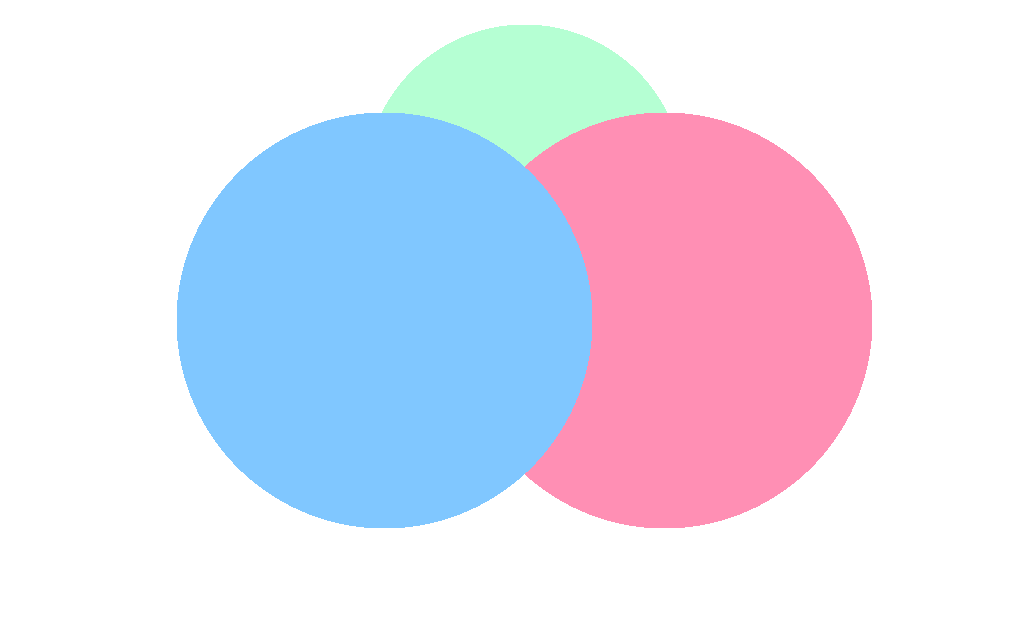
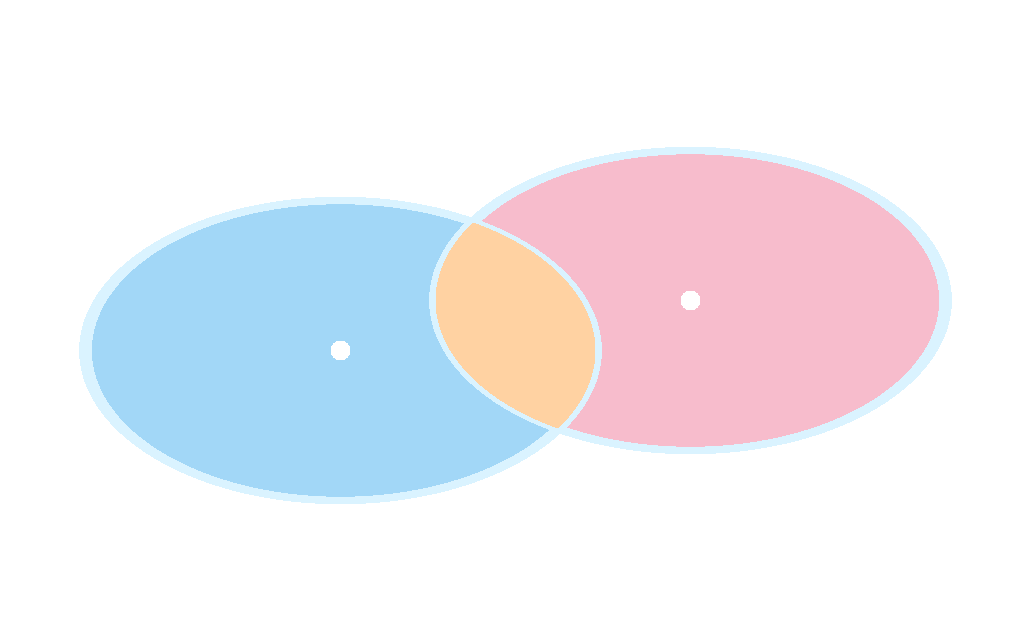
docs: align demo assets with mission fixtures

diff --git a/scripts/generate-example-assets.ts b/scripts/generate-example-assets.ts
@@ -10,41 +10,60 @@ await mkdir(output, { recursive: true })
 // pixels, so the sources are wider than that and stay sharp when the renderer
 // scales them down.
 
-// Opaque gradient with a bright horizon band
+// Opaque ascent profile on a dark telemetry-console background.
 await writeFile(path.join(output, "opaque.png"), png(1280, 720, (x, y) => {
-  const horizon = y / 720
-  const glow = Math.max(0, 1 - Math.abs(y - 360) / 184)
-  return [
-    Math.round(30 + horizon * 60 + glow * 90),
-    Math.round(70 + horizon * 80 + glow * 60),
-    Math.round(170 + horizon * 50 + glow * 30),
-    255,
-  ]
+  const pathY = ascentY(x, 1280, 720)
+  const distance = Math.abs(y - pathY)
+  const grid = x % 160 < 2 || y % 90 < 2
+  const glow = Math.max(0, 1 - distance / 18)
+  if (distance <= 3) return [102, 235, 255, 255]
+  if (glow > 0) return [Math.round(24 + glow * 35), Math.round(66 + glow * 120), Math.round(92 + glow * 130), 255]
+  if (grid) return [24, 61, 82, 255]
+  const depth = y / 720
+  return [Math.round(8 + depth * 8), Math.round(22 + depth * 18), Math.round(38 + depth * 28), 255]
 }))
 
-// Overlapping translucent discs on a transparent field
+// Overlapping translucent coverage footprints for the coastal and inland
+// ground stations. The transparent field lets the terminal background show.
 await writeFile(path.join(output, "transparent.png"), png(1024, 640, (x, y) => {
-  const left = Math.hypot(x - 384, y - 320) < 208
-  const right = Math.hypot(x - 664, y - 320) < 208
-  const top = Math.hypot(x - 524, y - 184) < 160
-  if (left) return [85, 180, 255, 190]
-  if (right) return [255, 105, 155, 190]
-  if (top) return [130, 255, 180, 150]
+  const coastal = ellipse(x, y, 340, 350, 255, 150)
+  const inland = ellipse(x, y, 690, 300, 255, 150)
+  const coastalRing = Math.abs(Math.hypot((x - 340) / 255, (y - 350) / 150) - 1) < 0.025
+  const inlandRing = Math.abs(Math.hypot((x - 690) / 255, (y - 300) / 150) - 1) < 0.025
+  const coastalStation = Math.hypot(x - 340, y - 350) < 10
+  const inlandStation = Math.hypot(x - 690, y - 300) < 10
+  if (coastalStation || inlandStation) return [255, 255, 255, 235]
+  if (coastal && inland) return [255, 176, 92, 145]
+  if (coastalRing || inlandRing) return [210, 240, 255, 210]
+  if (coastal) return [66, 174, 238, 125]
+  if (inland) return [238, 118, 150, 125]
   return [0, 0, 0, 0]
 }))
 
-// Color spectrum
+// A dark plume-spectrum fixture with a few bright emission lines.
 await writeFile(path.join(output, "spectrum.png"), png(1280, 640, (x, y) => {
-  const hue = (x / 1280) * 6
+  if (y < 96 || y >= 544) return [7, 17, 30, 255]
+  const hue = (x / 1280) * 5.8
   const [r, g, b] = hueRgb(hue)
-  const shade = 0.45 + (y / 640) * 0.55
-  return [Math.round(r * shade), Math.round(g * shade), Math.round(b * shade), 255]
+  const normalizedX = x / 1280
+  const peaks = [0.16, 0.31, 0.48, 0.72, 0.86]
+  const peak = Math.max(...peaks.map((position) => Math.max(0, 1 - Math.abs(normalizedX - position) / 0.012)))
+  const band = 0.38 + peak * 0.62
+  const grid = x % 160 < 2 || y % 112 < 2
+  if (grid && peak < 0.4) return [24, 43, 58, 255]
+  return [Math.round(r * band), Math.round(g * band), Math.round(b * band), 255]
 }))
 
-// Hard-edged checker
+// Calibration grid with a visible centre reticle and terminal-friendly contrast.
 await writeFile(path.join(output, "checker.png"), png(1024, 1024, (x, y) => {
   const cell = ((x >> 6) + (y >> 6)) & 1
-  return cell ? [235, 238, 242, 255] : [28, 34, 46, 255]
+  const line = x % 64 < 2 || y % 64 < 2
+  const reticle = Math.abs(x - 512) < 3 || Math.abs(y - 512) < 3
+  const ring = Math.abs(Math.hypot(x - 512, y - 512) - 230) < 3
+  if (reticle) return [102, 235, 255, 255]
+  if (ring) return [255, 183, 82, 230]
+  if (line) return [74, 103, 121, 255]
+  return cell ? [31, 50, 66, 255] : [11, 25, 40, 255]
 }))
 
 // A real animation: a ring pulsing outwards on a transparent field. Every
@@ -58,7 +77,21 @@ await writeFile(path.join(output, "pulse.gif"), gif(640, 640, 6, (x, y, frame, f
   if (Math.abs(distance - outer) <= 16) return [1, 2, 3][frame % 3]!
   if (Math.abs(distance - inner) <= 12) return 3
   return 0
-}, [0, 0, 0], [[120, 200, 255], [160, 230, 255], [255, 255, 255]]))
+}, [0, 0, 0], [[66, 174, 238], [255, 176, 92], [255, 255, 255]]))
+
+function ascentY(x: number, width: number, height: number): number {
+  const progress = x / (width - 1)
+  const altitude = progress < 0.25
+    ? 0.12 + 0.34 * (progress / 0.25) ** 0.8
+    : progress < 0.7
+      ? 0.46 + 0.38 * ((progress - 0.25) / 0.45) ** 0.78
+      : 0.84 + 0.04 * ((progress - 0.7) / 0.3)
+  return Math.round(height - 58 - altitude * (height - 112))
+}
+
+function ellipse(x: number, y: number, centerX: number, centerY: number, radiusX: number, radiusY: number): boolean {
+  return ((x - centerX) / radiusX) ** 2 + ((y - centerY) / radiusY) ** 2 < 1
+}
 
 function hueRgb(hue: number): [number, number, number] {
   const c = 1
